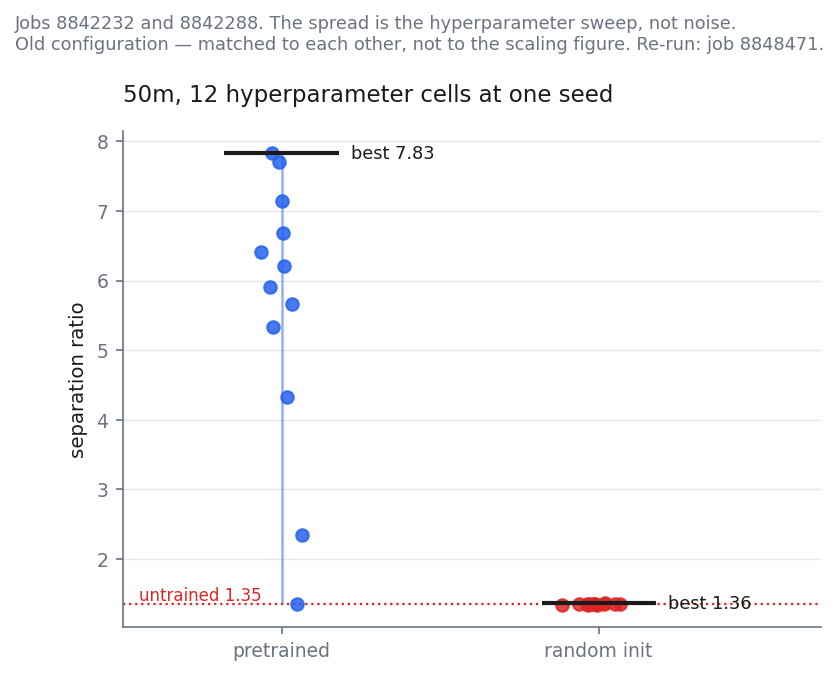
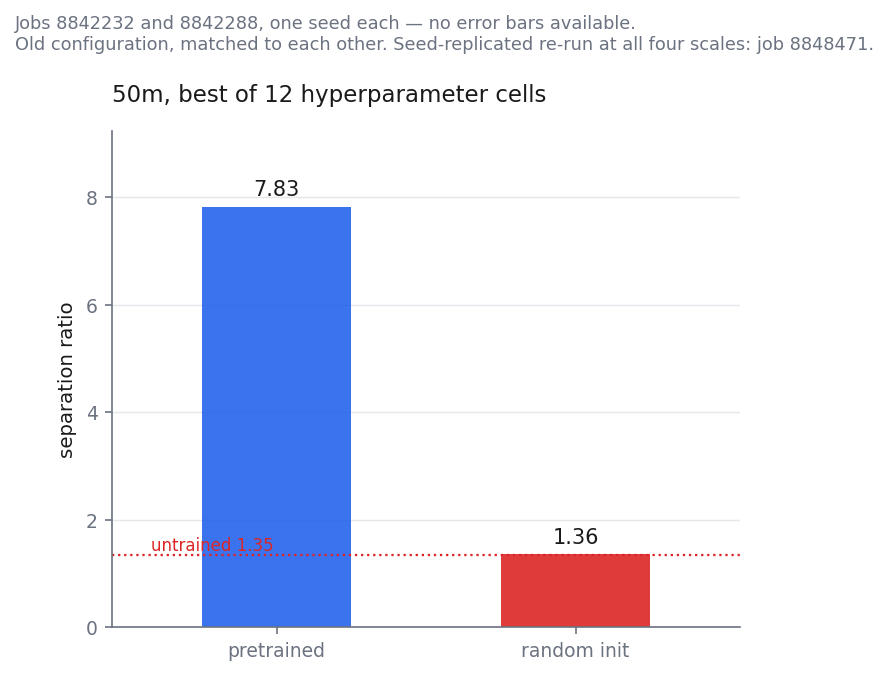
Ablation shows max over hyperparameters, not their spread
Selection is max over HP everywhere in this project, so plotting the spread
across cells drew the sweep and invited reading it as an uncertainty beside the
genuine seed bands in the scaling figure. Best cell each, and the caption states
plainly that no error bars are available because neither grid was
seed-replicated.

Claude-Session: https://claude.ai/code/session_01ATgkXx1oRRqvzB3G8wYeta

Changed region(s): [[0.062, 0.1864, 0.8987, 0.9941], [0.0, 0.0, 0.9607, 0.0932], [0.124, 0.1243, 0.7437, 0.1553]]

diff --git a/sweeps/plot_contrastive.py b/sweeps/plot_contrastive.py
@@ -8,14 +8,13 @@ contrastive_scaling.png   Separation ratio against model size, 6 SEEDS per scale
                           0.07 under the broken sampler, which is what "contrastive
                           saturates at 100m" was read from.
 
-contrastive_ablation.png  Pretrained against randomly initialised, one point per
-                          hyperparameter CELL -- twelve settings at a single seed, not
-                          twelve runs of one setting. The spread is the sweep, not
-                          noise, so a mean over it would average good settings with
-                          collapsed ones and estimate nothing; the bar marks the best
-                          cell. PROVISIONAL: 50m only, and at the OLD configuration for
-                          both arms, so they are matched to each other but not to the
-                          scaling figure. Job 8848471 re-runs it properly.
+contrastive_ablation.png  Pretrained against randomly initialised, BEST cell each.
+                          Selection is max over hyperparameters everywhere in this
+                          project, so the spread across cells is not an uncertainty and
+                          is not drawn. These two points have no error bars, because
+                          neither grid was seed-replicated. PROVISIONAL: 50m only, old
+                          configuration. Job 8848471 re-runs it with 6 seeds at all
+                          four scales.
 """
 
 from __future__ import annotations
@@ -98,33 +97,36 @@ def fig_scaling():
 
 
 def fig_ablation():
+    """Best cell only. HP variance is not an error bar.
+
+    Selection here is max over hyperparameters, as everywhere else in this project, so
+    showing the spread across cells would plot the sweep rather than an uncertainty and
+    invite comparison with the seed bands in the scaling figure. Until the matched
+    ablation lands (job 8848471, 4 scales x 6 seeds) these two points carry no
+    uncertainty at all, and the figure says so rather than implying one.
+    """
     pre, rand = ratios("8842232"), ratios("8842288")
-    fig, ax = plt.subplots(figsize=(6.0, 4.3))
-    rng = np.random.default_rng(0)
-    for i, (series, colour) in enumerate(((pre, BLUE), (rand, RED))):
-        v = list(series.values())
-        if not v:
-            continue
-        ax.scatter(np.full(len(v), i) + rng.normal(0, 0.05, len(v)), v, s=36,
-                   color=colour, alpha=0.85, zorder=3)
-        # Range and best, never a mean: these are twelve different hyperparameter
-        # cells at one seed, so averaging them mixes good settings with collapsed
-        # ones and estimates nothing.
-        ax.vlines(i, min(v), max(v), color=colour, lw=1.2, alpha=0.5, zorder=2)
-        ax.hlines(max(v), i - 0.18, i + 0.18, color=INK, lw=2, zorder=4)
-        ax.annotate(f"best {max(v):.2f}", (i + 0.22, max(v)), fontsize=8.5, color=INK,
-                    va="center")
+    if not pre or not rand:
+        print("  ablation: no data"); return
+    best = [max(pre.values()), max(rand.values())]
+
+    fig, ax = plt.subplots(figsize=(5.4, 4.3))
+    ax.bar([0, 1], best, width=0.5, color=[BLUE, RED], alpha=0.9)
+    for i, b in enumerate(best):
+        ax.annotate(f"{b:.2f}", (i, b), textcoords="offset points", xytext=(0, 5),
+                    ha="center", fontsize=10, color=INK)
     ax.axhline(FLOOR, color=RED, lw=1.1, ls=":")
-    ax.annotate(f"untrained {FLOOR}", (-0.45, FLOOR), fontsize=8, color=RED,
+    ax.annotate(f"untrained {FLOOR}", (-0.42, FLOOR), fontsize=8, color=RED,
                 ha="left", va="bottom")
     ax.set_xticks([0, 1]); ax.set_xticklabels(["pretrained", "random init"])
-    ax.set_xlim(-0.5, 1.7)
+    ax.set_xlim(-0.55, 1.55)
+    ax.set_ylim(0, max(best) * 1.18)
     ax.set_ylabel("separation ratio")
-    ax.set_title("50m, 12 hyperparameter cells at one seed", loc="left", pad=14)
+    ax.set_title("50m, best of 12 hyperparameter cells", loc="left", pad=14)
     ax.grid(axis="y"); ax.set_axisbelow(True)
-    fig.suptitle("Jobs 8842232 and 8842288. The spread is the hyperparameter sweep, "
-                 "not noise.\nOld configuration — matched to each other, not to the "
-                 "scaling figure. Re-run: job 8848471.",
+    fig.suptitle("Jobs 8842232 and 8842288, one seed each — no error bars available.\n"
+                 "Old configuration, matched to each other. Seed-replicated re-run at "
+                 "all four scales: job 8848471.",
                  x=0.005, ha="left", fontsize=8.5, color=MUTED, y=1.06)
     fig.savefig(FIGS / "contrastive_ablation.png"); plt.close(fig)
 
